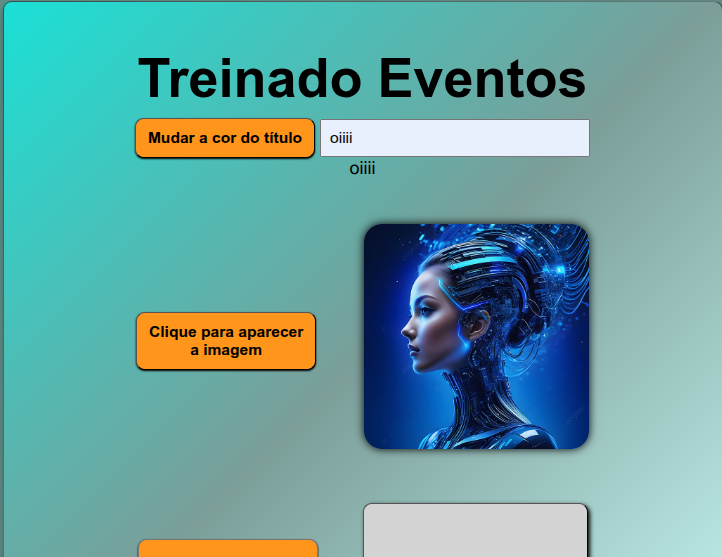
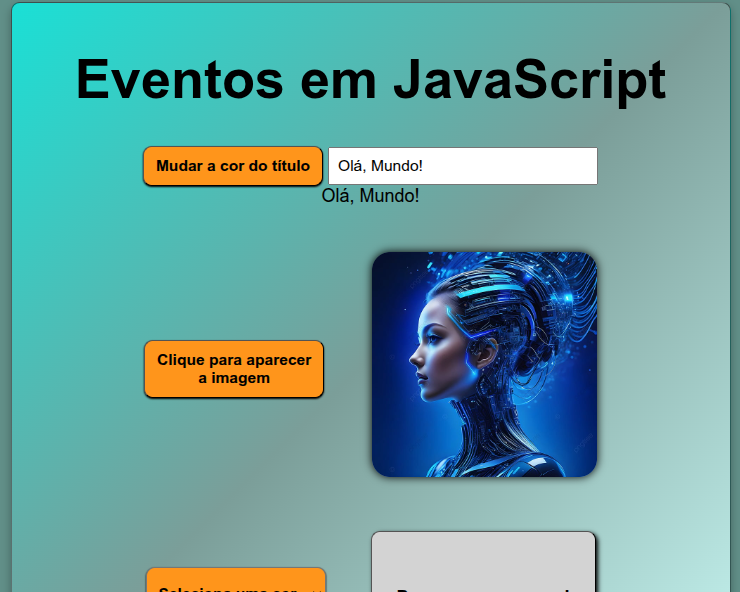
trocando img

diff --git a/index.html b/index.html
@@ -39,7 +39,7 @@ main:hover {
   box-shadow: 0 8px 20px rgba(0,0,0,0.4);
 }
 
-h1 { font-size: 60px; margin-top: 20px; }
+h1 { font-size: 60px; margin-top: 20px; margin-bottom: 30px; }
 
 input { padding: 10px; width: 300px; max-width: 100%; }
 
@@ -166,7 +166,7 @@ button:hover { background-color: yellow; }
 
   <body>
     <main>
-      <h1 id="titulo">Treinado Eventos</h1>
+      <h1 id="titulo">Eventos em JavaScript</h1>
       <button id="botao1">Mudar a cor do título</button>
 
       <input id="campoTexto" type="text" placeholder="Digite algo" />
